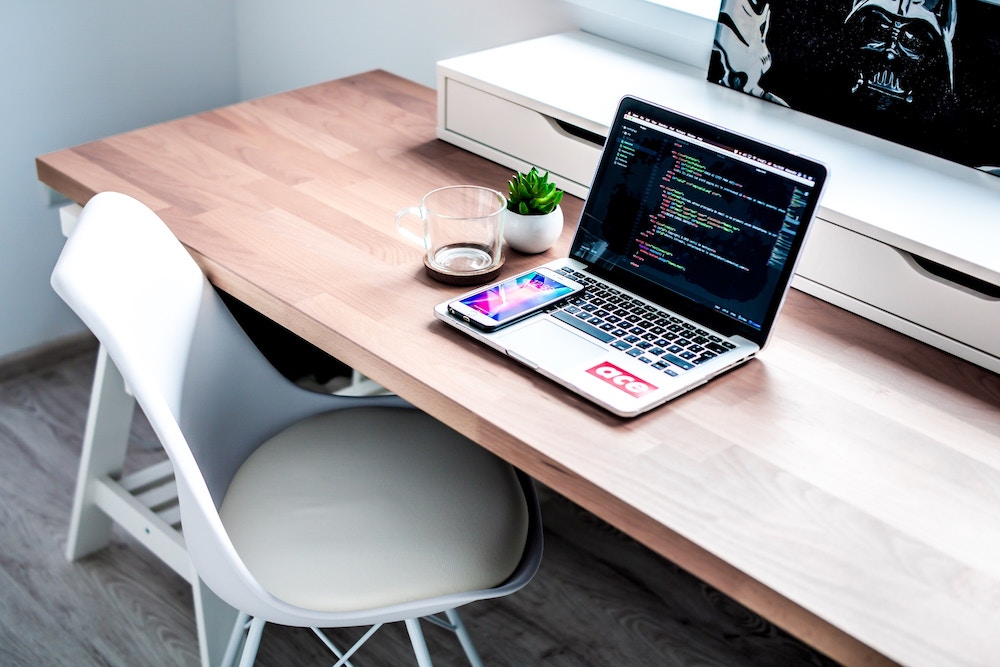
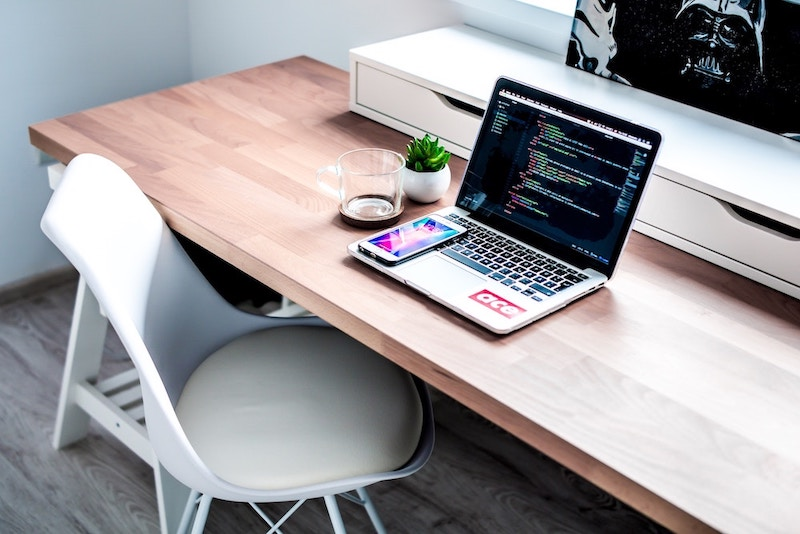
compressed images

diff --git a/css/style.css b/css/style.css
@@ -50,7 +50,7 @@ nav .btn:hover {
 /* ---------------- */
 
 #home {
-    background-image: url('../images/soccer1.jpg');
+    background-image: url('../images/soccer1-min.jpg');
     background-size: cover;
     background-attachment: fixed;
     background-position: center;
@@ -169,7 +169,7 @@ body #home p {
 
 #skills {
     background-attachment: fixed;
-    background-image: linear-gradient(rgba(0,0,0,0.7), rgba(0,0,0,0.7)), url('../images/desk.jpg');
+    background-image: linear-gradient(rgba(0,0,0,0.7), rgba(0,0,0,0.7)), url('../images/desk-min.jpg');
     background-position: center;
     background-repeat: no-repeat;
     background-size: cover;
@@ -213,7 +213,7 @@ body #home p {
 
 #projects {
     background-attachment: fixed;
-    background-image: linear-gradient(rgba(0,0,0,0.7), rgba(0,0,0,0.7)), url('../images/notepad.jpg');
+    background-image: linear-gradient(rgba(0,0,0,0.7), rgba(0,0,0,0.7)), url('../images/notepad-min.jpg');
     background-position: center;
     background-repeat: no-repeat;
     background-size: cover;

diff --git a/index.html b/index.html
@@ -212,11 +212,11 @@
         </section>
 
         <script type="text/javascript" src="js/materialize.min.js"></script>
+        <script src="https://cdnjs.cloudflare.com/ajax/libs/materialize/1.0.0/js/materialize.min.js"></script>
         <script src="https://ajax.googleapis.com/ajax/libs/jquery/3.3.1/jquery.min.js"></script>
         <script src="js/jquery.waypoints.min.js"></script>
         <script src="js/main.js"></script>
         <script src="js/jQuery.js"></script>
-        <script src="https://cdnjs.cloudflare.com/ajax/libs/materialize/1.0.0/js/materialize.min.js"></script>
 
         <!-- Global site tag (gtag.js) - Google Analytics -->
         <script async src="https://www.googletagmanager.com/gtag/js?id=UA-138000301-1"></script>
